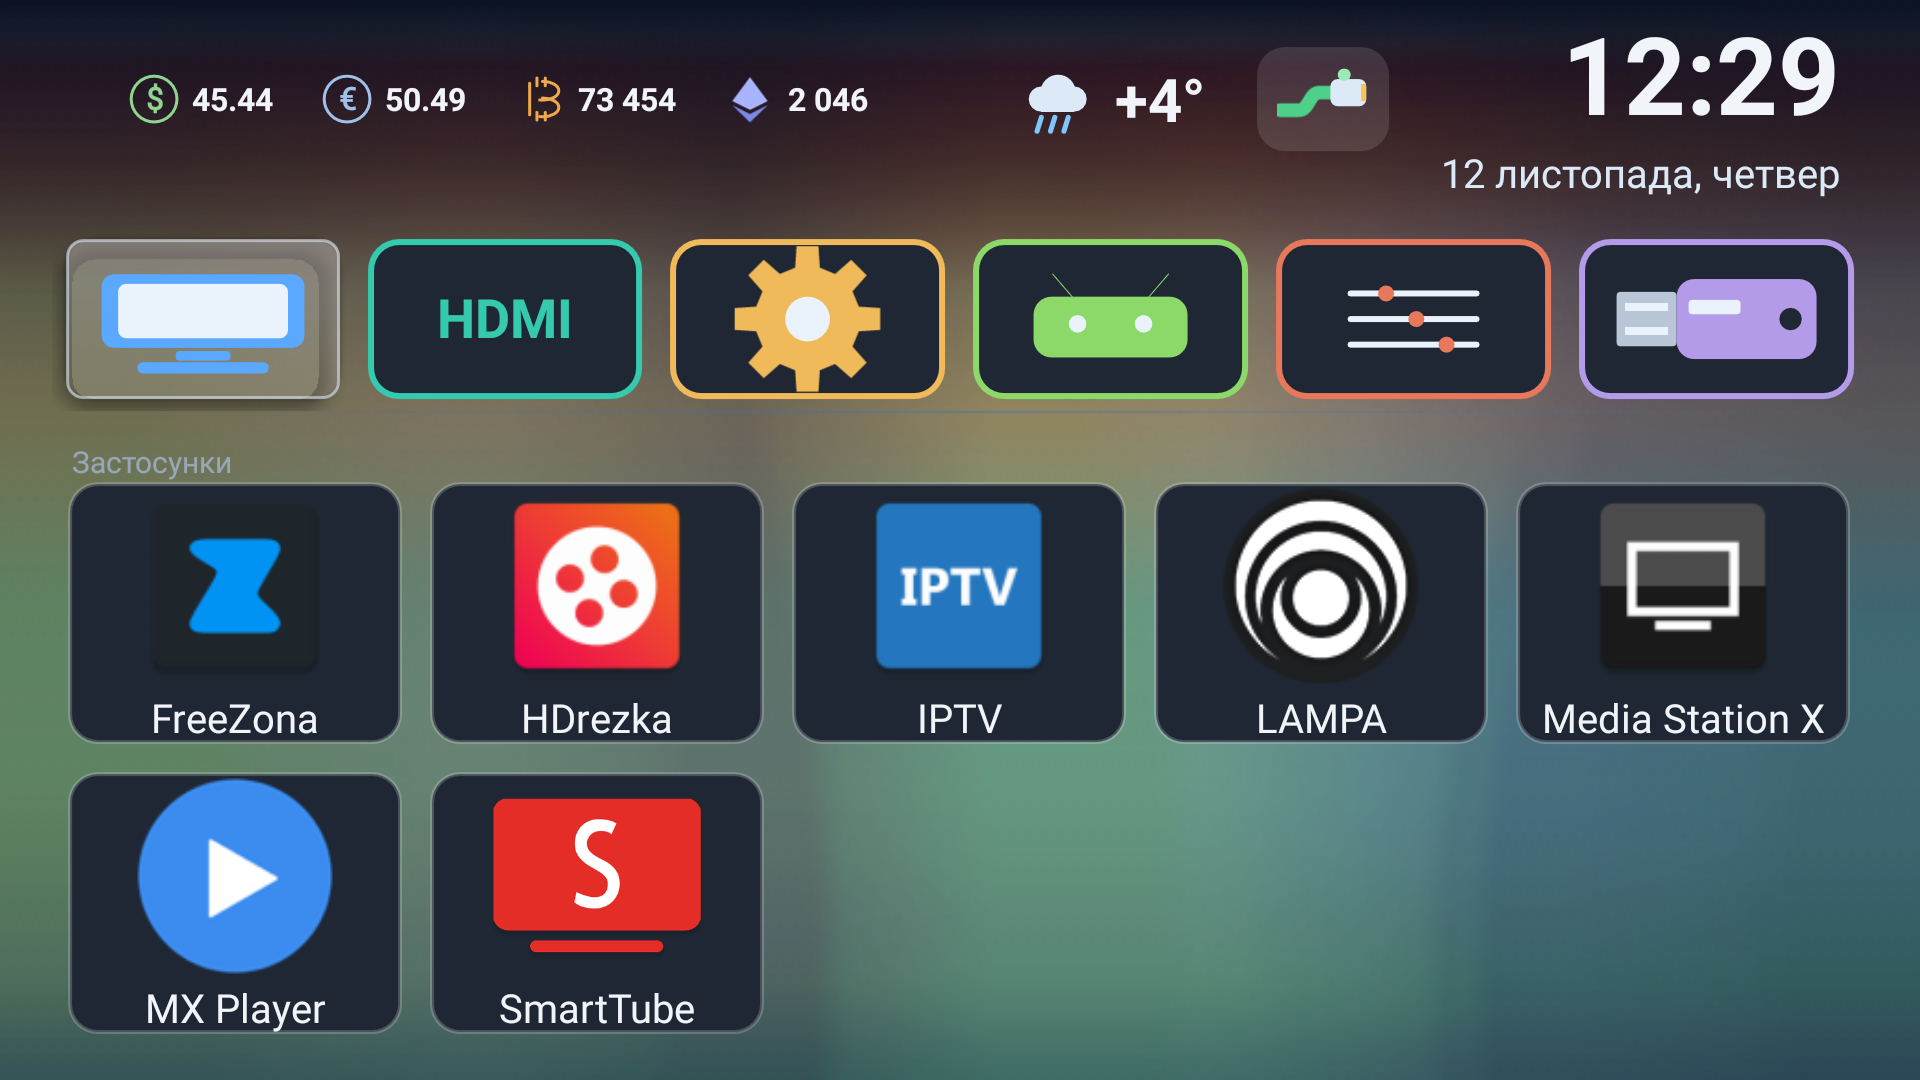
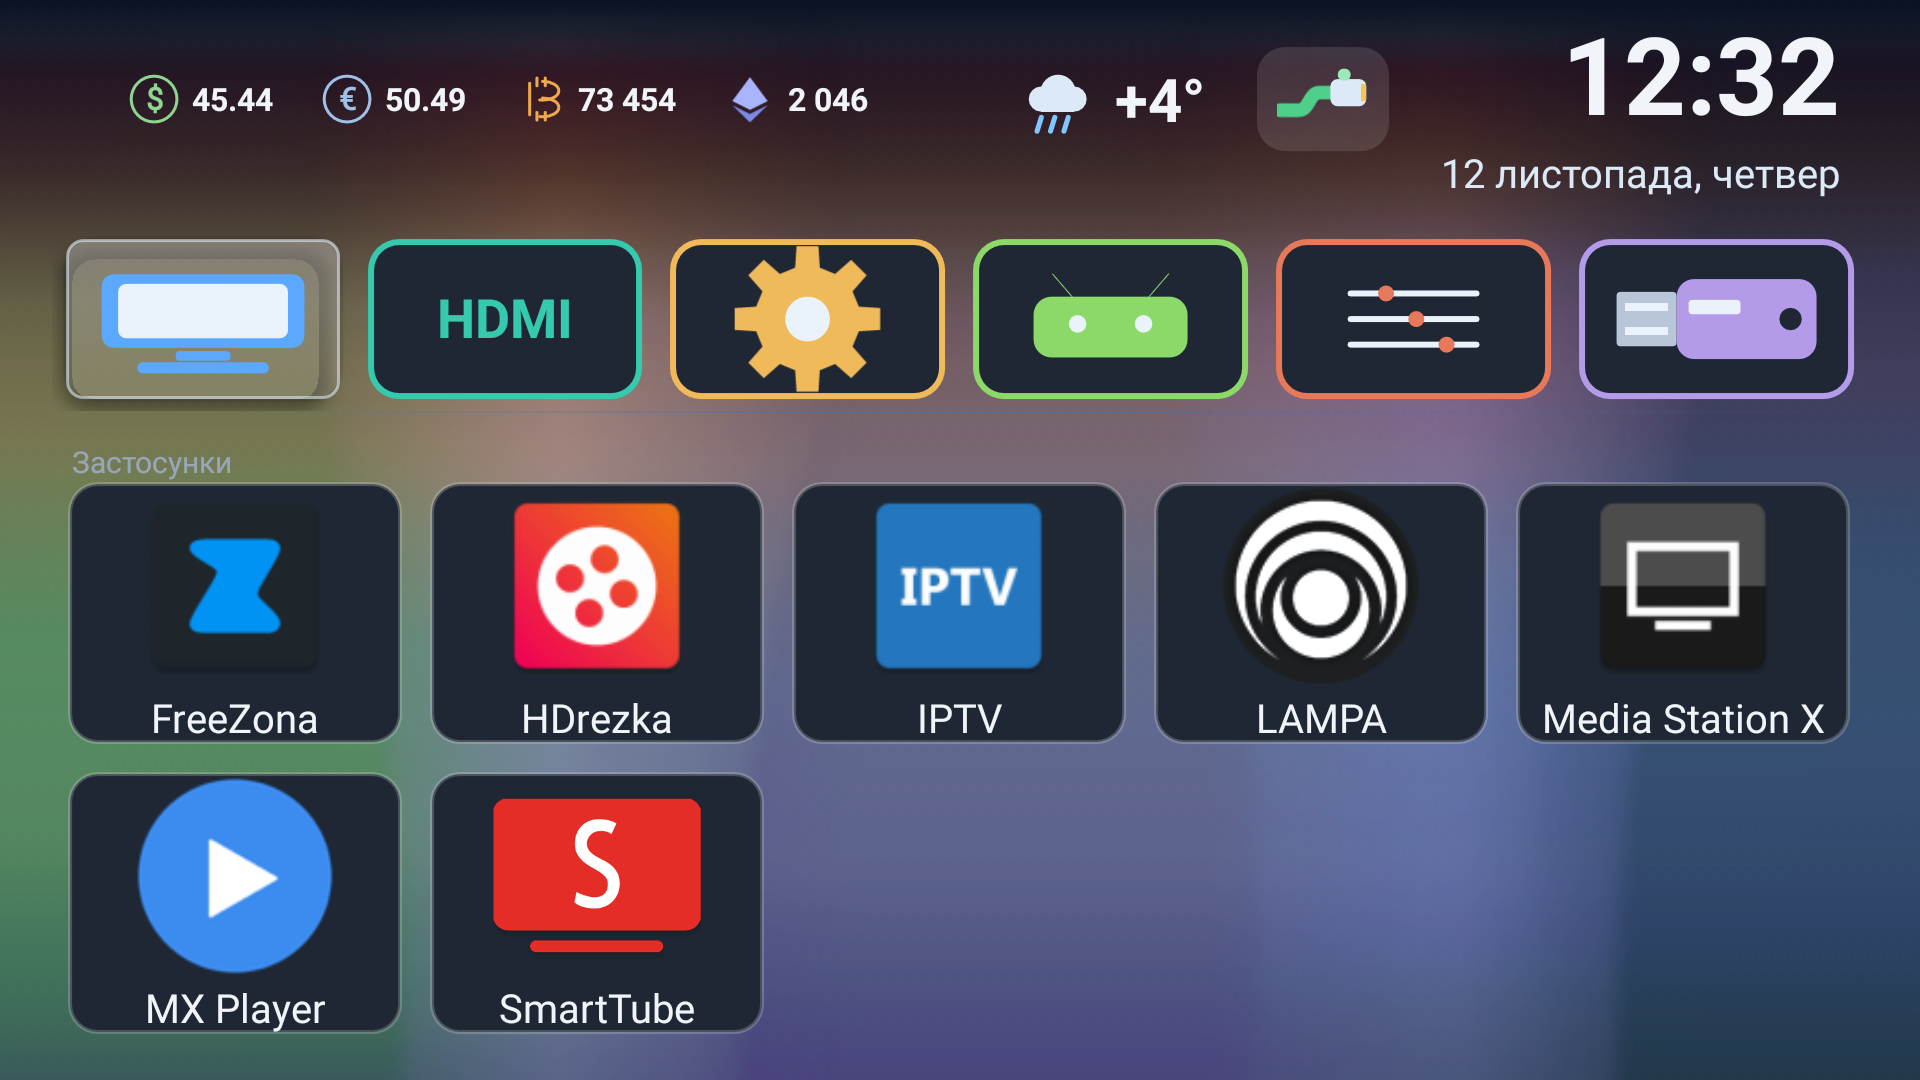
Аврора: убрана вторая точка запуска анимации, шаги только по развёртке экрана

diff --git a/src/com/minihome/tv/MainActivity.java b/src/com/minihome/tv/MainActivity.java
@@ -1337,8 +1337,10 @@ public class MainActivity extends Activity {
         ensureFocus();
         handler.removeCallbacks(ticker);
         handler.postDelayed(ticker, 60000);
-        handler.removeCallbacks(bgTick);
-        handler.postDelayed(bgTick, 250);   // аврора живёт только пока экран наш
+        if (bgView != null) {
+            bgView.removeCallbacks(bgTick);
+            bgView.postOnAnimation(bgTick);   // аврора живёт только пока экран наш
+        }
     }
 
     @Override
